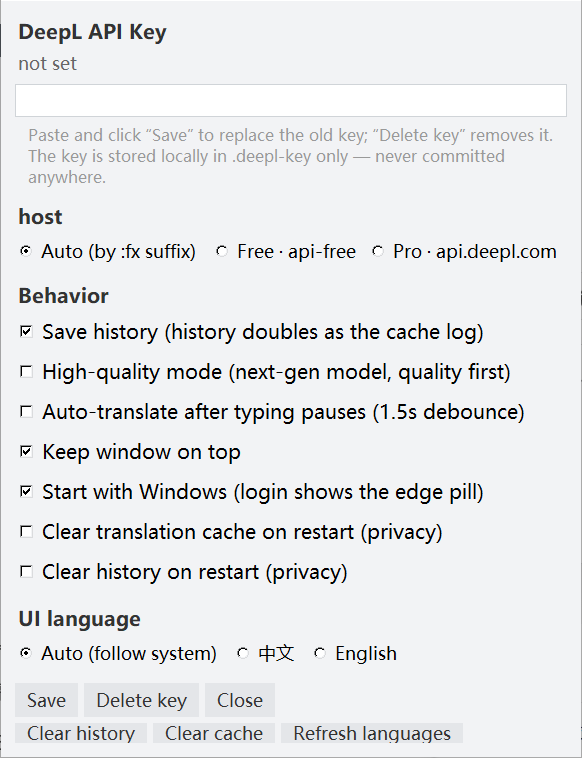
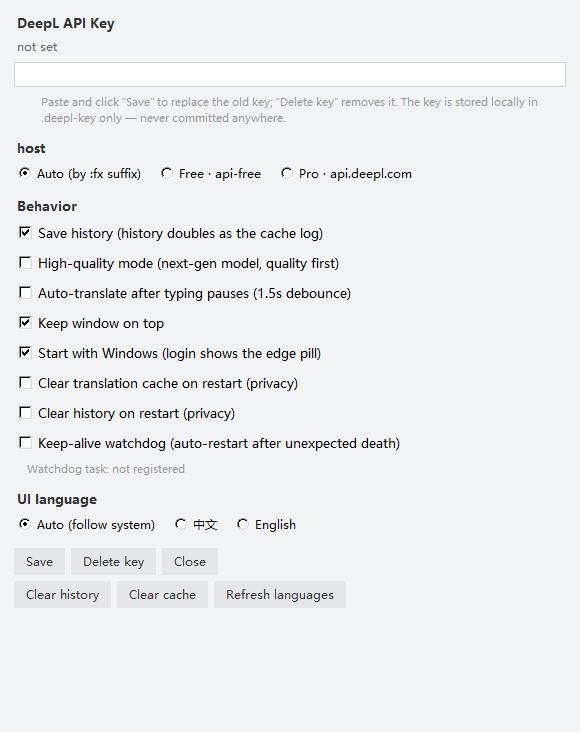
feat: v0.3.8 — keep-alive watchdog (scheduled-task revival), settings status line, short-screen dialog fixes
- optional watchdog: OS-scheduled short-lived --watchdog-check revives the pill
  after silent death (30-min net + Kernel-Power 507 resume trigger); respects
  clean exits via forensic-log tail; visible task under \deepl-quick\watchdog
- settings: 8th checkbox + live task-status line; adaptive height; _center
  clamps to screen and re-clamps after map (768-line displays no longer clip)
- smoke 56->77; geometry probe 12/12; live E2E: kill->revive, clean->skip

diff --git a/README.md b/README.md
@@ -10,9 +10,9 @@
   平时缩成一枚胶囊&nbsp;<img src="assets/pill.png" alt="pill" width="39">&nbsp;，悬停即展开 —— 看不懂 → 拿走译文，呼吸之间
 </p>
 
-![release](https://img.shields.io/github/v/release/geekkkk404/deepl-quick) ![python](https://img.shields.io/badge/Python-3.8%2B-306998) ![platform](https://img.shields.io/badge/Windows-10%20%2F%2011-0078d4) ![license](https://img.shields.io/badge/License-MIT-27ae60) ![selftest](https://img.shields.io/badge/self--test-56%20passing-27ae60)
+![release](https://img.shields.io/github/v/release/geekkkk404/deepl-quick) ![python](https://img.shields.io/badge/Python-3.8%2B-306998) ![platform](https://img.shields.io/badge/Windows-10%20%2F%2011-0078d4) ![license](https://img.shields.io/badge/License-MIT-27ae60) ![selftest](https://img.shields.io/badge/self--test-77%20passing-27ae60)
 
-当前版本：**v0.3.7** ・ License：[MIT](LICENSE)
+当前版本：**v0.3.8** ・ License：[MIT](LICENSE)
 
 [中文](#-中文) ・ [English](#english)
 
@@ -34,6 +34,7 @@
 
 - **贴边药丸常驻**：鼠标离开约 0.75s 自动折叠成 39×30 胶囊，悬停展开、静止不弹跳、拖动中不折叠；窗口位置与药丸位置均有记忆；后台轮询自动重申置顶并把窗口夹回屏内（分辨率变化 / 睡眠唤醒 / RDP 重连自愈），运行痕迹落 `%TEMP%\dq_exit.log` 可事后排查
 - **开机自启（可选）**：设置弹窗勾选即写 HKCU Run 键（免管理员），登录后直接缩成贴边药丸；Windows 任务管理器「启动应用」可随时停用；自带单实例保护，不会叠出两枚药丸
+- **看门狗保活（可选）**：设置勾选即注册 Windows 计划任务（免管理员），进程意外死亡（如待机转换中被外部硬杀）后自动拉起——每 30 分钟兜底 + 待机唤醒即时检查；主动 ✕ 关闭不会被拉活（尊重用户意图）；任务在「任务计划程序」的 `\deepl-quick\watchdog` 透明可见，取消勾选即注销；拉活判据复用取证日志（`exit: clean` = 用户关闭，不拉活）
 - **自动检测源语言**：无需选择源语言，DeepL 返回检测结果并显示在界面上
 - **常驻目标语言**：默认英/日/中，可从完整语言清单勾选（上限 16 个）；清单支持在线刷新（DeepL 现已支持 111 门目标语言），DeepL 新增语言不用升级本工具；语言名以原生名显示（日本語 / Deutsch / Français…）；已选语言即结果卡片列表本身，点卡片头部「×」移除、「⏸」临时停用（本次不翻译、不扣额度，点「▶」恢复，清单不丢）
 - **界面多语言**：界面自动跟随 Windows 系统语言（中文 / English），可在设置中强制指定，切换即时生效
@@ -65,7 +66,7 @@
 | 增删常驻语言 | 「＋语言」勾选；卡片头部「×」移除 |
 | 临时停用某语言（省额度） | 卡片头部「⏸」停用、「▶」恢复（仅本会话有效） |
 | 历史 | 标题栏「史」，双击条目回填原文 |
-| 设置（key / 高质量模式 / 历史开关 / host / 开机自启 / 界面语言） | 标题栏「设」 |
+| 设置（key / 高质量模式 / 历史开关 / host / 开机自启 / 看门狗保活 / 界面语言） | 标题栏「设」 |
 | 折叠 / 展开 | 标题栏「—」；或鼠标离开 / 悬停自动 |
 | 拖动 / 调整大小 | 拖标题栏；右下角「◢」 |
 | 置顶开关 | 标题栏「钉」（绿=开） |
@@ -98,7 +99,7 @@
 python deepl_quick.pyw --smoke
 ```
 
-56 项自检全部离线运行（数据文件重定向到临时目录、注册表读写走 scratch 键，不发任何网络请求）。
+77 项自检全部离线运行（数据文件重定向到临时目录、注册表读写走 scratch 键、计划任务 roundtrip 走 scratch 任务名且不武装触发器，不发任何网络请求）。
 
 ### License
 
@@ -120,6 +121,7 @@ python deepl_quick.pyw --smoke
 
 - **Edge pill, always resident** — auto-collapses (~0.75s) to a 39×30 pill when the mouse leaves; hover to expand; no bounce while idle, no collapse while dragging; both window and pill positions are remembered; the background poll re-asserts always-on-top and keeps the window inside the screen (self-heals after resolution changes / sleep-resume / RDP reconnects); runtime trace goes to `%TEMP%\dq_exit.log` for post-mortem checks
 - **Optional auto-start** — tick it in settings to register an HKCU Run key (no admin needed); the pill docks itself at login; disable anytime from Task Manager → Startup apps; single-instance guard included
+- **Keep-alive watchdog (optional)** — tick it in settings to register a Windows scheduled task (no admin needed); after an unexpected process death (e.g., hard-killed during a power transition) the pill is revived automatically — a 30-minute safety net plus an instant check on standby resume; deliberately closing the window (✕) is respected and never revived; the task is visible and removable in Task Scheduler under `\deepl-quick\watchdog`; the revive decision reuses the forensic log (`exit: clean` = user closed → don't revive)
 - **Auto source detection** — no language picking; DeepL returns the detected language and the UI shows it
 - **Pinned target languages** — EN/JA/ZH by default, pick from the full language list (up to 16); the list can be refreshed online (DeepL currently serves 111 target languages), so new DeepL languages appear without upgrading this tool; languages are shown by their native names (日本語 / Deutsch / Français…); the card list itself shows which languages are pinned — temporarily pause one with "⏸" on its card header (skipped this round, costs nothing; "▶" restores it, the pinned list never changes), remove with "×"
 - **Multilingual UI** — the interface follows your Windows system language (Chinese / English), and can be pinned to either in Settings; switching applies instantly
@@ -169,7 +171,7 @@ Usage is counted in **source characters**: translating one text into 3 languages
 python deepl_quick.pyw --smoke
 ```
 
-56 offline checks (data files go to a temp directory, registry writes go to a scratch key; no network requests).
+77 offline checks (data files go to a temp directory, registry writes go to a scratch key, the scheduled-task roundtrip uses a scratch task name without arming triggers; no network requests).
 
 ### License
 

diff --git a/CHANGELOG.md b/CHANGELOG.md
@@ -3,6 +3,17 @@
 All notable changes to deepl-quick are documented here.
 本文件记录 deepl-quick 的全部重要变更。
 
+## v0.3.8 — 2026-11-17
+
+- New optional **keep-alive watchdog**: tick it in settings and a Windows scheduled task (no admin needed) revives the pill after an unexpected process death — the two post-mortems in the ledger both showed the process being hard-killed from outside during power-transition windows, leaving zero Python-level or WER traces, so revival (not prevention) is the only practical strategy. Checks run every 30 minutes as a safety net, instantly on standby-resume (Kernel-Power 507 event trigger), and the checker is a short-lived `--watchdog-check` instance that exits within seconds — the watchdog itself needs no babysitting because the schedule belongs to the OS, which terminates the "who watches the watchdog" recursion. Deliberately closing the window is respected: the revive decision reads the forensic log's last app-written line and skips when it says `exit: clean`. The task lives visibly under `\deepl-quick\watchdog` in Task Scheduler; unticking removes it; startup self-heals the task if it was deleted externally while enabled.
+  新增可选**看门狗保活**：设置勾选即注册 Windows 计划任务（免管理员），进程意外死亡后自动拉起——账本两次尸检都指向「待机转换窗口内被外部硬杀、不留任何 Python 级或 WER 级痕迹」，防死不可行，复活是唯一务实策略。检查每 30 分钟兜底一次、待机唤醒（Kernel-Power 507 事件触发）即时一次；检查体是秒级退出的 `--watchdog-check` 短命实例——看门狗自身无需保活，调度权在 OS 手里，「谁看门看门狗」的递归在操作系统层终结。主动关闭被尊重：拉活判据读取证日志末条应用行，`exit: clean` 即跳过。任务在任务计划程序 `\deepl-quick\watchdog` 下透明可见，取消勾选即注销；勾选状态下任务被外部手删，下次启动自愈补注册。
+- Settings dialog: 8th checkbox (watchdog) plus a live status line ("Watchdog task: registered / not registered") that queries the actual scheduler state when the dialog opens — the config value is never taken at face value. Section paddings were tightened to keep the dialog inside short screens, and the dialog height now adapts (756 ceiling → shrinks on short displays), with `_center` clamping against the real screen **and** re-clamping after map once the title-bar decoration height is measurable — previously on a 768-line display the dialog's button rows could land off-screen.
+  设置弹窗：第 8 个勾选框（看门狗）+ 实时状态行（「看门狗任务：已注册 / 未注册」，打开弹窗时真查任务计划程序，不信任 config 纸面值）。收紧分节 padding 控制高度预算，弹窗高度改为自适应（756 封顶、矮屏收缩），`_center` 改为对真实屏幕钳制并在映射后（标题栏装饰高度可实测时）再钳一拍——修复矮屏（768 线）下弹窗底部按钮行出屏的老问题。
+- Forensic log etiquette: watchdog audit lines are tagged `wd-check` and skipped by the revive decision's tail reader; revived starts are logged as `startup (revived)` so post-mortems can tell revivals from manual starts.
+  取证日志礼节：看门狗审计行带 `wd-check` 标记，拉活判据读末行时跳过它们；看门狗拉起的启动记为 `startup (revived)`，尸检可区分「复活体」与「手动启动」。
+- Verified: smoke 56→**77**/77 (watchdog revive-decision pure functions, log-tail reader, task-XML shape incl. escaped 507 subscription, and a real schtasks register/query/delete roundtrip on a scratch task name without arming triggers); headless geometry probe 12/12 on a real 1366×768 display (8 checkboxes + status line + both button rows inside the dialog, longest zh/en label width-asserted, dialog outer frame fully on-screen); live end-to-end on the developer machine: hard-kill → task run → revived within a beat and outlived the task's execution window; clean ✕ → task run → correctly skipped.
+  验证：smoke 56→**77**/77（拉活判据纯函数、日志末行读取、任务 XML 形状含转义的 507 订阅、scratch 任务名的真实 schtasks 注册/查询/注销 roundtrip 且不武装触发器）；1366×768 真实矮屏无头几何探针 12/12（8 勾选+状态行+两行按钮全部界内、双语最长文案宽度点名断言、弹窗外框完整在屏）；开发机实机端到端：硬杀→任务触发→一拍内复活且存活逾任务执行窗口；干净 ✕→任务触发→正确跳过。
+
 ## v0.3.7 — 2026-11-16
 
 - **Long translations are fully visible now**: result cards auto-fit their height to the translated text (rewrapping on window resize) instead of clipping to two fixed lines — previously there was no way to see the rest of a longer translation at all.
